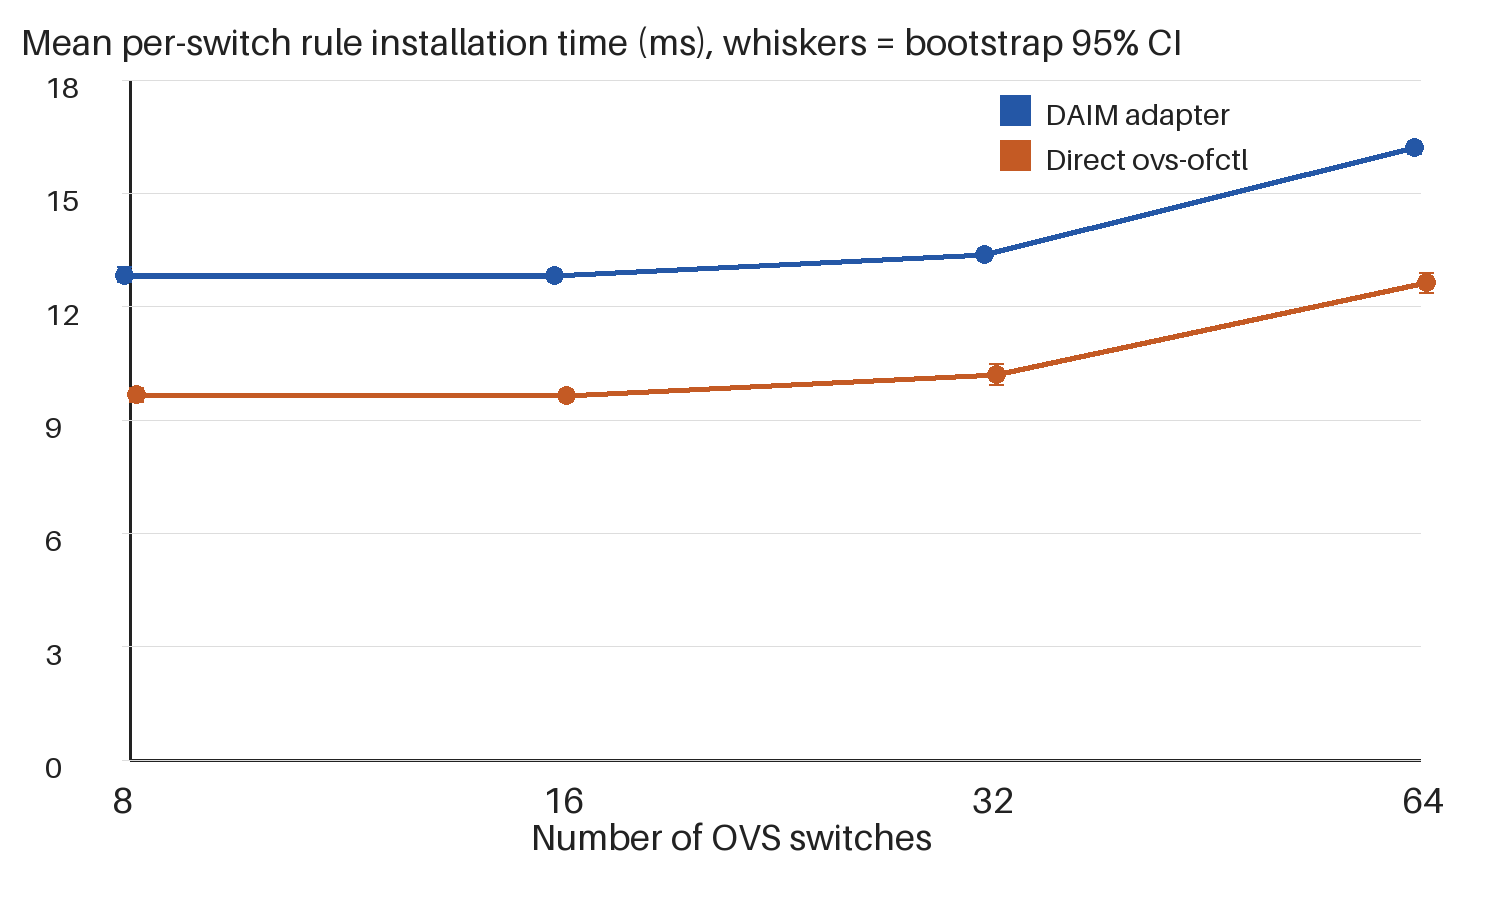
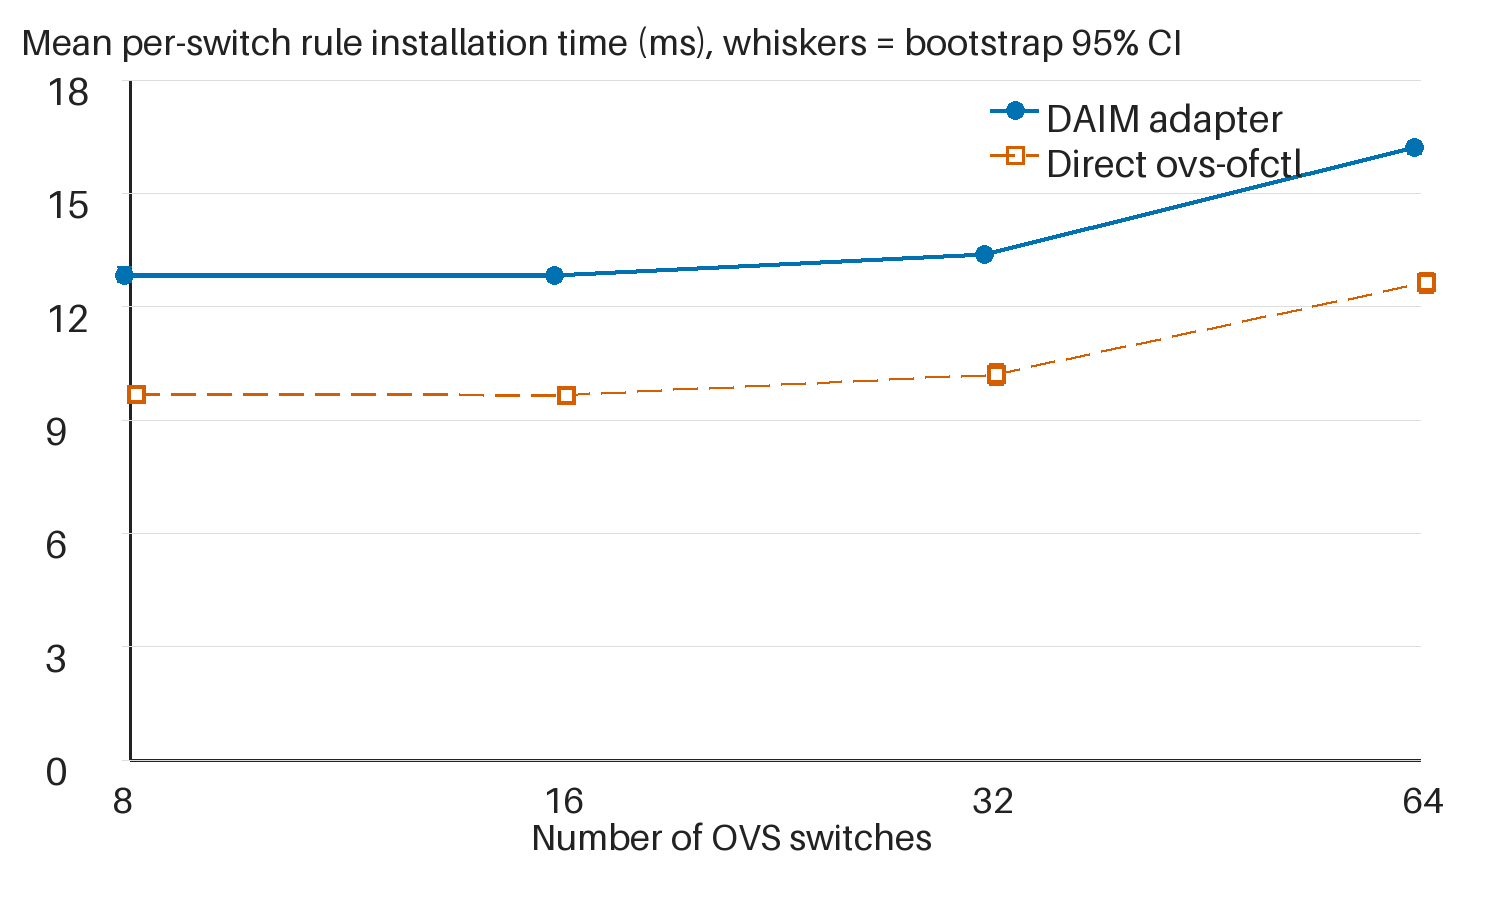
Redraw the architecture figure with a non-colour-reliant inherited/ implemented/external key
draw_architecture() in paper1_analysis.py generates paper1_architecture.png,
which is byte-identical to Figure_2.png in the paper's submission package
-- verified before editing. Added a third category and a border-style key
that does not rely on colour alone:

- solid border, blue: external dependency, unmodified (Mininet host, OVS
  switch, Os-Ken controller)
- dashed border, purple: glue code written for this artifact, not a
  DAIM-OS specified concept (the Python/ctypes bridge)
- dotted border, orange: a DAIM-OS concept from the specification,
  implemented in C here (Core, DAIM learning application, OVS adapter)

Each box is now tagged with its category in text, and the legend states
the border-style mapping explicitly. Extended canvas height (1080 ->
1150) and reworked label positions to fix layout overlaps this surfaced
(an "Install decision" arrow label colliding with box text, legend text
running off the canvas edge).

The shared box() helper's fill+outline drawing was split into two calls
to support border styles; this produces negligible anti-aliasing
differences in the other paper1_analysis.py figures (topology, sequence,
comparison, installation-time), regenerated and included here for
consistency -- visually verified unchanged in content, not just diffed.

Local commit only, not pushed.

diff --git a/analysis/paper1_analysis.py b/analysis/paper1_analysis.py
@@ -15,6 +15,17 @@ OUT = ROOT / "results/paper1"
 SEED = 20260718
 BOOTSTRAPS = 20000
 
+def styled_segment(draw, a, b, style="solid", width=4, color="#111111"):
+    x0,y0=a; x1,y1=b
+    length=max(1.0,((x1-x0)**2+(y1-y0)**2)**0.5)
+    pattern=[length] if style=="solid" else [24,12]
+    pos=0.0; pi=0; on=True
+    while pos<length:
+        end=min(length,pos+pattern[pi%len(pattern)])
+        if on:
+            draw.line((x0+(x1-x0)*pos/length,y0+(y1-y0)*pos/length,x0+(x1-x0)*end/length,y0+(y1-y0)*end/length),fill=color,width=width)
+        pos=end; pi+=1; on=not on
+
 
 def bootstrap_ci(values, rng):
     values = np.asarray(values, dtype=float)
@@ -38,7 +49,7 @@ def draw_chart(rows, path):
     image = Image.new("RGB", (width, height), "white")
     draw = ImageDraw.Draw(image)
     font = ImageFont.load_default(size=36)
-    small = ImageFont.load_default(size=30)
+    small = ImageFont.load_default(size=38)
     left, top, right, bottom = 130, 80, 1420, 760
     draw.line((left, top, left, bottom), fill="#222222", width=3)
     draw.line((left, bottom, right, bottom), fill="#222222", width=3)
@@ -49,7 +60,7 @@ def draw_chart(rows, path):
         draw.text((45, y - 12), str(tick), fill="#222222", font=small)
     sizes = sorted({r["network_size"] for r in rows})
     modes = ["daim_adapter", "direct_ovs"]
-    colors = {"daim_adapter": "#2457A6", "direct_ovs": "#C45A24"}
+    colors = {"daim_adapter": "#0072B2", "direct_ovs": "#D55E00"}
     labels = {"daim_adapter": "DAIM adapter", "direct_ovs": "Direct ovs-ofctl"}
     offsets = {"daim_adapter": -6, "direct_ovs": 6}
 
@@ -68,33 +79,71 @@ def draw_chart(rows, path):
             draw.line((x, y_lo, x, y_hi), fill=colors[mode], width=2)
             draw.line((x - 7, y_lo, x + 7, y_lo), fill=colors[mode], width=2)
             draw.line((x - 7, y_hi, x + 7, y_hi), fill=colors[mode], width=2)
-        draw.line(points, fill=colors[mode], width=6)
+        for a, b in zip(points, points[1:]):
+            styled_segment(draw, a, b, "solid" if mode == "daim_adapter" else "dashed", 5 if mode == "daim_adapter" else 3, colors[mode])
         for x, y in points:
-            draw.ellipse((x - 9, y - 9, x + 9, y + 9), fill=colors[mode])
+            if mode == "daim_adapter":
+                draw.ellipse((x-9,y-9,x+9,y+9),fill=colors[mode])
+            else:
+                draw.rectangle((x-9,y-9,x+9,y+9),outline=colors[mode],width=4,fill="white")
     for idx, size in enumerate(sizes):
         x = left + idx * (right - left) / (len(sizes) - 1)
         draw.text((x - 18, bottom + 18), str(size), fill="#222222", font=font)
     draw.text((530, 815), "Number of OVS switches", fill="#222222", font=font)
     draw.text((20, 20), "Mean per-switch rule installation time (ms), whiskers = bootstrap 95% CI", fill="#222222", font=font)
-    draw.rectangle((1000, 95, 1030, 125), fill=colors["daim_adapter"])
+    draw.ellipse((1006, 101, 1024, 119), fill=colors["daim_adapter"])
+    styled_segment(draw, (990,110), (1038,110), "solid", 4, colors["daim_adapter"])
     draw.text((1045, 95), labels["daim_adapter"], fill="#222222", font=small)
-    draw.rectangle((1000, 140, 1030, 170), fill=colors["direct_ovs"])
+    draw.rectangle((1006, 146, 1024, 164), outline=colors["direct_ovs"], width=3, fill="white")
+    styled_segment(draw, (990,155), (1038,155), "dashed", 3, colors["direct_ovs"])
     draw.text((1045, 140), labels["direct_ovs"], fill="#222222", font=small)
     image.save(path)
 
 
-def box(draw, xy, text, font, fill="#EFF3F9", outline="#2457A6", text_color="#1F2933"):
+def dashed_rectangle(draw, xy, outline, width=3, dash=14, gap=8, dotted=False):
     x0, y0, x1, y1 = xy
-    draw.rectangle(xy, fill=fill, outline=outline, width=3)
-    lines = text.split("\n")
+    if dotted:
+        dash, gap = width + 1, 10
+    edges = [((x0, y0), (x1, y0)), ((x1, y0), (x1, y1)), ((x1, y1), (x0, y1)), ((x0, y1), (x0, y0))]
+    for (ex0, ey0), (ex1, ey1) in edges:
+        length = ((ex1 - ex0) ** 2 + (ey1 - ey0) ** 2) ** 0.5
+        if length == 0:
+            continue
+        ux, uy = (ex1 - ex0) / length, (ey1 - ey0) / length
+        pos = 0.0
+        draw_on = True
+        while pos < length:
+            step = dash if draw_on else gap
+            end = min(length, pos + step)
+            if draw_on:
+                draw.line((ex0 + ux * pos, ey0 + uy * pos, ex0 + ux * end, ey0 + uy * end), fill=outline, width=width)
+            pos = end
+            draw_on = not draw_on
+
+
+def box(draw, xy, text, font, fill="#F1F1F1", outline="#333333", text_color="#1F2933", border="solid", tag=None, tag_font=None, tag_color=None):
+    x0, y0, x1, y1 = xy
+    draw.rectangle(xy, fill=fill)
+    if border == "solid":
+        draw.rectangle(xy, outline=outline, width=3)
+    elif border == "dashed":
+        dashed_rectangle(draw, xy, outline, width=3, dash=16, gap=10)
+    elif border == "dotted":
+        dashed_rectangle(draw, xy, outline, width=4, dotted=True)
+    lines = text.split("\n") if text else []
     line_h = font.size + 6
-    total_h = line_h * len(lines)
+    tag_h = (tag_font.size + 6) if tag else 0
+    total_h = line_h * len(lines) + tag_h
     ty = y0 + ((y1 - y0) - total_h) / 2
     for line in lines:
         bbox = draw.textbbox((0, 0), line, font=font)
         tw = bbox[2] - bbox[0]
         draw.text((x0 + ((x1 - x0) - tw) / 2, ty), line, fill=text_color, font=font)
         ty += line_h
+    if tag:
+        bbox = draw.textbbox((0, 0), tag, font=tag_font)
+        tw = bbox[2] - bbox[0]
+        draw.text((x0 + ((x1 - x0) - tw) / 2, ty + 4), tag, fill=tag_color or outline, font=tag_font)
 
 
 def h_arrow(draw, x0, x1, y, label, font, color="#333333", dashed=False, label_dy=-26):
@@ -114,7 +163,10 @@ def h_arrow(draw, x0, x1, y, label, font, color="#333333", dashed=False, label_d
     if label:
         bbox = draw.textbbox((0, 0), label, font=font)
         tw = bbox[2] - bbox[0]
-        draw.text((min(x0, x1) + abs(x1 - x0) / 2 - tw / 2, y + label_dy), label, fill=color, font=font)
+        tx = min(x0, x1) + abs(x1 - x0) / 2 - tw / 2
+        ty = y + label_dy
+        draw.rectangle((tx - 8, ty - 3, tx + tw + 8, ty + font.size + 4), fill="white")
+        draw.text((tx, ty), label, fill=color, font=font)
 
 
 def v_arrow(draw, x, y0, y1, label, font, color="#333333", label_dx=10):
@@ -129,7 +181,7 @@ def v_arrow(draw, x, y0, y1, label, font, color="#333333", label_dx=10):
 
 
 def draw_architecture(path):
-    width, height = 1700, 1010
+    width, height = 1800, 1150
     image = Image.new("RGB", (width, height), "white")
     draw = ImageDraw.Draw(image)
     title_font = ImageFont.load_default(size=42)
@@ -138,61 +190,90 @@ def draw_architecture(path):
 
     draw.text((20, 20), "DAIM-OS table-and-signal control path: component architecture", fill="#111111", font=title_font)
 
-    host = (60, 150, 300, 230)
-    switch = (420, 150, 720, 230)
-    controller = (840, 150, 1180, 230)
-    bridge = (840, 380, 1180, 460)
-    core = (840, 590, 1180, 690)
-    app = (560, 800, 900, 890)
-    adapter = (1040, 800, 1380, 890)
+    host = (70, 180, 330, 270)
+    switch = (430, 180, 750, 270)
+    controller = (930, 180, 1270, 270)
+    bridge = (930, 400, 1270, 490)
+    core = (930, 610, 1270, 720)
+    app = (540, 850, 940, 950)
+    adapter = (1100, 850, 1480, 950)
 
-    box(draw, host, "Mininet host (h1)", font)
-    box(draw, switch, "OVS switch\nOpenFlow 1.3", font)
-    box(draw, controller, "Os-Ken\ncontroller", font)
-    box(draw, bridge, "Python bridge\nctypes", font)
-    box(draw, core, "DAIM Core\nTables + NO_RULE", font, fill="#FDF3E7", outline="#C45A24")
-    box(draw, app, "Learning application\nWrites forwarding table", small, fill="#FDF3E7", outline="#C45A24")
-    box(draw, adapter, "OVS adapter\nPersistent or CLI", font, fill="#FDF3E7", outline="#C45A24")
+    EXT_FILL, EXT_LINE = "#EAF2FB", "#0072B2"
+    GLUE_FILL, GLUE_LINE = "#F0EAFB", "#6B4E9E"
+    DAIM_FILL, DAIM_LINE = "#FFF0E6", "#D55E00"
+    tag_font = ImageFont.load_default(size=24)
+
+    EXT_TAG = "[external dependency]"
+    GLUE_TAG = "[glue code, this artifact]"
+    DAIM_TAG = "[DAIM-OS concept, impl. here]"
+
+    box(draw, host, "Mininet host (h1)", font, fill=EXT_FILL, outline=EXT_LINE, border="solid",
+        tag=EXT_TAG, tag_font=tag_font, tag_color=EXT_LINE)
+    box(draw, switch, "OVS switch, OpenFlow 1.3", font, fill=EXT_FILL, outline=EXT_LINE, border="solid",
+        tag=EXT_TAG, tag_font=tag_font, tag_color=EXT_LINE)
+    box(draw, controller, "Os-Ken controller", font, fill=EXT_FILL, outline=EXT_LINE, border="solid",
+        tag=EXT_TAG, tag_font=tag_font, tag_color=EXT_LINE)
+    box(draw, bridge, "Python bridge (ctypes)", font, fill=GLUE_FILL, outline=GLUE_LINE, border="dashed",
+        tag=GLUE_TAG, tag_font=tag_font, tag_color=GLUE_LINE)
+    box(draw, core, "DAIM Core\nTables + NO_RULE", font, fill=DAIM_FILL, outline=DAIM_LINE, border="dotted",
+        tag=DAIM_TAG, tag_font=tag_font, tag_color=DAIM_LINE)
+    box(draw, app, "DAIM learning application", font, fill=DAIM_FILL, outline=DAIM_LINE, border="dotted",
+        tag=DAIM_TAG, tag_font=tag_font, tag_color=DAIM_LINE)
+    box(draw, adapter, "OVS adapter (persistent or CLI)", font, fill=DAIM_FILL, outline=DAIM_LINE, border="dotted",
+        tag=DAIM_TAG, tag_font=tag_font, tag_color=DAIM_LINE)
 
     h_arrow(draw, host[2], switch[0], 178, "traffic", small, label_dy=-26)
 
     # switch <-> controller: routed above/below the boxes so labels never
     # cross box borders or text.
-    sx, cx = 650, 900
-    draw.line((sx, switch[1], sx, 100), fill="#333333", width=3)
-    draw.line((sx, 100, cx, 100), fill="#333333", width=3)
-    v_arrow(draw, cx, 100, controller[1], "", small)
-    draw.text((sx + 30, 78), "Packet-In (table-miss)", fill="#333333", font=small)
+    sx, cx = 660, 1010
+    draw.line((sx, switch[1], sx, 115), fill="#333333", width=3)
+    draw.line((sx, 115, cx, 115), fill="#333333", width=3)
+    v_arrow(draw, cx, 115, controller[1], "", small)
+    draw.text((700, 72), "Packet-In (table-miss)", fill="#333333", font=small)
 
-    draw.line((cx, controller[3], cx, 275), fill="#666666", width=2)
-    draw.line((cx, 275, sx, 275), fill="#666666", width=2)
-    v_arrow(draw, sx, 275, switch[3], "", small, color="#666666")
-    draw.text((sx + 30, 282), "PacketOut (buffered packet)", fill="#666666", font=small)
+    draw.line((cx, controller[3], cx, 320), fill="#666666", width=2)
+    draw.line((cx, 320, sx, 320), fill="#666666", width=2)
+    v_arrow(draw, sx, 320, switch[3], "", small, color="#666666")
+    draw.text((700, 328), "PacketOut (buffered)", fill="#666666", font=small)
 
-    v_arrow(draw, 1010, controller[3], bridge[1], "Packet-In fields", small)
-    v_arrow(draw, 1010, bridge[3], core[1], "Emit NO_RULE", small)
+    v_arrow(draw, 1100, controller[3], bridge[1], "Packet-In fields", small, label_dx=18)
+    v_arrow(draw, 1100, bridge[3], core[1], "Emit NO_RULE", small, label_dx=18)
 
     # core -> app: right-angle connector down and left, single label
-    core_app_y = 745
-    draw.line((core[0] + 60, core[3], core[0] + 60, core_app_y), fill="#333333", width=3)
-    draw.line((core[0] + 60, core_app_y, app[0] + 170, core_app_y), fill="#333333", width=3)
-    v_arrow(draw, app[0] + 170, core_app_y, app[1], "Invoke handler", small, label_dx=14)
+    core_app_y = 790
+    draw.line((core[0] + 70, core[3], core[0] + 70, core_app_y), fill="#333333", width=3)
+    draw.line((core[0] + 70, core_app_y, app[0] + 200, core_app_y), fill="#333333", width=3)
+    v_arrow(draw, app[0] + 200, core_app_y, app[1], "", small)
+    draw.text((app[0] + 215, 795), "Invoke handler", fill="#333333", font=small)
 
     # app -> adapter
-    h_arrow(draw, app[2], adapter[0], 845, "Install decision", small, label_dy=-40)
+    h_arrow(draw, app[2], adapter[0], 900, "", small)
 
     # adapter -> switch (installs rule): long return arrow up the right side,
     # then left along a lane above the title-adjacent margin and down into
     # the switch box at a point clear of the Packet-In/PacketOut stubs.
-    x_return = 1600
-    sw_target = 500
-    draw.line((adapter[2], 845, x_return, 845), fill="#2457A6", width=3)
-    draw.line((x_return, 845, x_return, 65), fill="#2457A6", width=3)
-    draw.line((x_return, 65, sw_target, 65), fill="#2457A6", width=3)
-    v_arrow(draw, sw_target, 65, switch[1], "", small, color="#2457A6")
-    draw.text((1370, 480), "Flow-Mod\ninstalls rule", fill="#2457A6", font=small)
+    x_return = 1660
+    sw_target = 520
+    draw.line((adapter[2], 900, x_return, 900), fill="#111111", width=5)
+    draw.line((x_return, 900, x_return, 125), fill="#111111", width=5)
+    draw.line((x_return, 125, sw_target, 125), fill="#111111", width=5)
+    v_arrow(draw, sw_target, 125, switch[1], "", small, color="#111111")
+    draw.text((1420, 520), "Flow-Mod\ninstalls rule", fill="#111111", font=small)
 
-    draw.text((20, 950), "Grey = controller-owned wire path. Orange boxes = DAIM Core/application/adapter (this paper's implemented subset). The table-write step is shown in Figure 2.", fill="#555555", font=small)
+    legend_y = 1005
+    row_h = 40
+    legend_font = ImageFont.load_default(size=26)
+
+    def legend_swatch_row(x, y, fill, outline, border, text):
+        box(draw, (x, y, x + 40, y + 28), "", legend_font, fill=fill, outline=outline, border=border)
+        draw.text((x + 52, y + 2), text, fill="#222222", font=legend_font)
+
+    legend_swatch_row(30, legend_y, EXT_FILL, EXT_LINE, "solid", "solid border = external dependency, unmodified")
+    legend_swatch_row(950, legend_y, DAIM_FILL, DAIM_LINE, "dotted", "dotted border = DAIM-OS concept, C impl. here")
+    legend_swatch_row(30, legend_y + row_h, GLUE_FILL, GLUE_LINE, "dashed", "dashed border = glue code for this artifact")
+    draw.text((950, legend_y + row_h + 2), "Border style (not colour alone) marks category", fill="#222222", font=legend_font)
+    draw.text((30, legend_y + 2 * row_h), "Heavy black line = Flow-Mod installation", fill="#222222", font=legend_font)
     image.save(path)
 
 
@@ -201,24 +282,27 @@ def draw_sequence(path):
     image = Image.new("RGB", (width, height), "white")
     draw = ImageDraw.Draw(image)
     title_font = ImageFont.load_default(size=42)
-    font = ImageFont.load_default(size=32)
-    small = ImageFont.load_default(size=32)
+    font = ImageFont.load_default(size=28)
+    small = ImageFont.load_default(size=27)
 
     draw.text((20, 20), "Packet-In -> NO_RULE -> installed OVS rule: message sequence", fill="#111111", font=title_font)
 
     actors = [
-        ("Host", 90),
-        ("OVS switch", 330),
-        ("Os-Ken\ncontroller", 570),
+        ("Host", 120),
+        ("OVS switch", 350),
+        ("Os-Ken\ncontroller", 590),
         ("ctypes bridge", 830),
-        ("DAIM Core\n(libdaim_core.so)", 1110),
-        ("Learning\napplication", 1370),
+        ("DAIM Core\n(libdaim_core.so)", 1080),
+        ("Learning\napplication", 1350),
         ("OVS adapter", 1590),
     ]
-    top_y = 70
+    top_y = 110
     bottom_y = 1080
-    for name, x in actors:
-        box(draw, (x - 90, top_y, x + 90, top_y + 70), name, font)
+    for idx, (name, x) in enumerate(actors):
+        implemented = idx >= 4
+        box(draw, (x - 100, top_y, x + 100, top_y + 78), name, font,
+            fill="#FFF0E6" if implemented else "#EAF2FB",
+            outline="#D55E00" if implemented else "#0072B2")
         draw.line((x, top_y + 70, x, bottom_y), fill="#BBBBBB", width=2)
 
     xs = {name: x for name, x in actors}
@@ -233,14 +317,14 @@ def draw_sequence(path):
         ("OVS adapter", "OVS switch", "8  Flow-Mod", False),
         ("Os-Ken\ncontroller", "OVS switch", "9  PacketOut", True),
     ]
-    y = 190
-    step_h = 100
+    y = 230
+    step_h = 95
     for src, dst, label, dashed in steps:
         x0, x1 = xs[src], xs[dst]
-        h_arrow(draw, x0, x1, y, label, small, color="#2457A6" if not dashed else "#888888", dashed=dashed, label_dy=-20)
+        h_arrow(draw, x0, x1, y, label, small, color="#111111", dashed=dashed, label_dy=-20)
         y += step_h
 
-    draw.text((20, 1100), "Dashed arrows = messages already possible without DAIM (return path / persistence).", fill="#555555", font=small)
+    draw.text((20, 1100), "Dashed arrows: return messages already possible without DAIM.", fill="#555555", font=small)
     image.save(path)
 
 
@@ -257,10 +341,10 @@ def draw_topology(path):
     draw.text((40, 30), "(a) Packet-In experiment topology (Section 5.3)", fill="#111111", font=title_font)
     ax_y = 170
     a_boxes = [
-        ("h1", 60, "#EFF3F9", "#2457A6"),
-        ("s1\n(OVS)", 280, "#FDF3E7", "#C45A24"),
-        ("s2\n(OVS)", 560, "#FDF3E7", "#C45A24"),
-        ("h2", 780, "#EFF3F9", "#2457A6"),
+        ("h1", 60, "#EAF2FB", "#0072B2"),
+        ("s1\n(OVS)", 280, "#FFF0E6", "#D55E00"),
+        ("s2\n(OVS)", 560, "#FFF0E6", "#D55E00"),
+        ("h2", 780, "#EAF2FB", "#0072B2"),
     ]
     prev = None
     for label, x, fill, outline in a_boxes:
@@ -284,26 +368,21 @@ def draw_topology(path):
             centers.append(x + 15)
             continue
         bx = (x, by0 - 35, x + 120, by0 + 35)
-        fill, outline = ("#FDF3E7", "#C45A24")
+        fill, outline = ("#FFF0E6", "#D55E00")
         box(draw, bx, lab, small, fill=fill, outline=outline)
         centers.append((bx[0] + bx[2]) / 2)
         hbx = (x + 10, by0 + 90, x + 110, by0 + 150)
-        box(draw, hbx, "h", tiny, fill="#EFF3F9", outline="#2457A6")
+        box(draw, hbx, "h", tiny, fill="#EAF2FB", outline="#0072B2")
         v_arrow(draw, (hbx[0] + hbx[2]) / 2, hbx[1], bx[3], "", tiny)
-    for i in range(len(centers) - 1):
-        if labels[i] == "..." or labels[i + 1] == "...":
-            x0 = centers[i] + (25 if labels[i] != "..." else 0)
-            x1 = centers[i + 1] - (25 if labels[i + 1] != "..." else 0)
-        else:
-            x0, x1 = centers[i] + 60, centers[i + 1] - 60
+    for x0, x1 in [(180,260),(380,460),(580,875),(945,1100),(1220,1300)]:
         draw.line((x0, by0, x1, by0), fill="#333333", width=3)
     draw.text((40, 820), "One host per switch; each switch receives one priority=100,ip,actions=normal rule.\nEvery topology rebuilt and cleaned before each of the 5 repetitions per (mode, N).", fill="#555555", font=tiny)
 
     # Testbed info box
     info_box = (40, 900, 1660, 1000)
-    draw.rectangle(info_box, fill="#F4F6F9", outline="#888888", width=2)
-    draw.text((60, 918), "Testbed: Ubuntu 24.04 LTS ARM64, Lima/QEMU VM (4 vCPU, 6 GiB RAM)  ·  Open vSwitch 3.3.4  ·  Mininet 2.3.0  ·  OpenFlow 1.3  ·  Os-Ken 2.6.0", fill="#222222", font=small)
-    draw.text((60, 948), "Core/adapter conformance tests were additionally run on macOS ARM64, Apple Clang 21.0.0 (Section 5.1).", fill="#555555", font=tiny)
+    draw.rectangle(info_box, fill="#F7F9FC", outline="#6B7280", width=2)
+    draw.text((60, 912), "Ubuntu 24.04 ARM64 · Lima/QEMU · 4 vCPU · 6 GiB RAM · OVS 3.3.4 · Mininet 2.3.0", fill="#222222", font=small)
+    draw.text((60, 952), "OpenFlow 1.3 · Os-Ken 2.6.0. Conformance tests also ran on macOS ARM64 (Section 5.1).", fill="#555555", font=tiny)
 
     image.save(path)
 
@@ -320,8 +399,8 @@ def draw_comparison(path):
 
     left = (60, 100, 760, 650)
     right = (1040, 100, 1640, 650)
-    draw.rectangle(left, fill="#F4F6F9", outline="#666666", width=3)
-    draw.rectangle(right, fill="#FDF3E7", outline="#C45A24", width=3)
+    draw.rectangle(left, fill="#EAF2FB", outline="#0072B2", width=3)
+    draw.rectangle(right, fill="#FFF0E6", outline="#D55E00", width=3)
     draw.text((left[0] + 24, left[1] + 20), "DAIM literature, 2013-2018 [1-3, 17, 18, 31, 32]", fill="#222222", font=font)
     draw.text((right[0] + 24, right[1] + 20), "This paper, 2026", fill="#222222", font=font)
 
@@ -367,9 +446,9 @@ def draw_comparison(path):
         ty += 34
 
     h_arrow(draw, left[2] + 15, right[0] - 15, 300, "", small)
-    draw.text((left[2] + 25, 330), "same table/signal\nabstractions; new\nexecutable artifact\nand evidence", fill="#2457A6", font=small)
+    draw.text((left[2] + 25, 330), "same table/signal\nabstractions; new\nexecutable artifact\nand evidence", fill="#111111", font=small)
 
-    draw.text((20, 700), "No historical DAIM performance number is reused in this paper; the right column lists what is newly measured here (Section 2.3).", fill="#555555", font=small)
+    draw.text((20, 700), "No historical DAIM performance result is reused; the right column lists evidence newly produced in this study.", fill="#555555", font=small)
     image.save(path)
 
 
